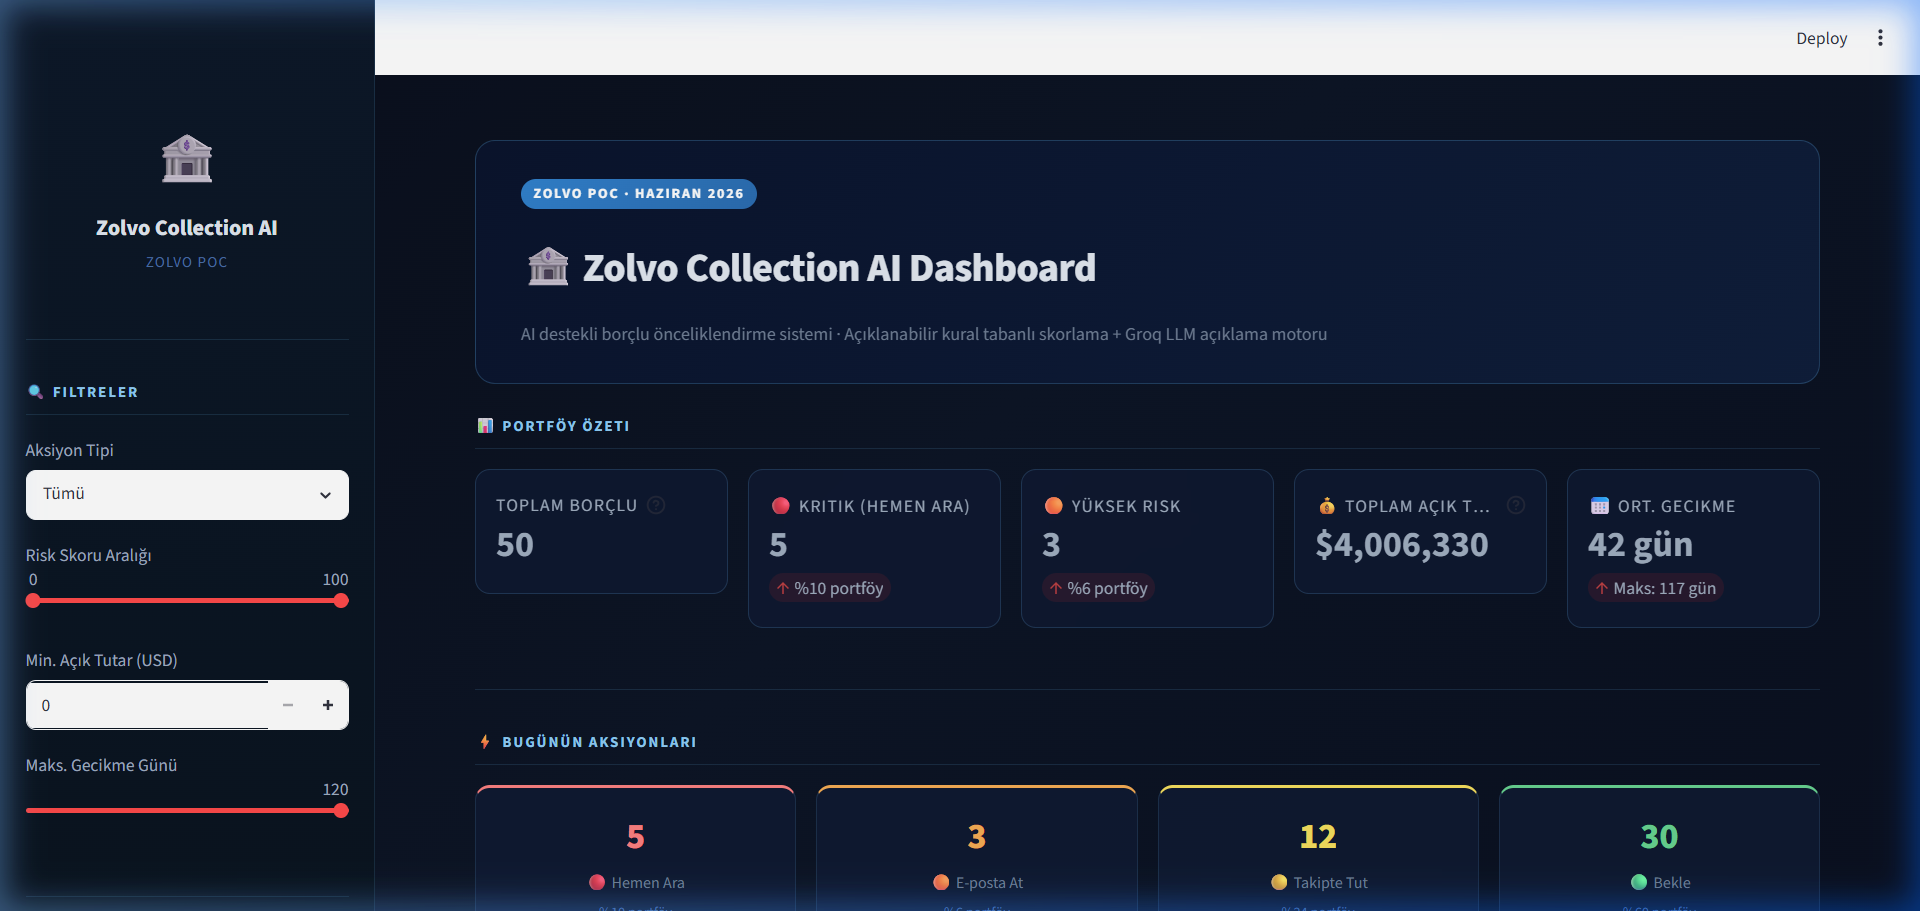
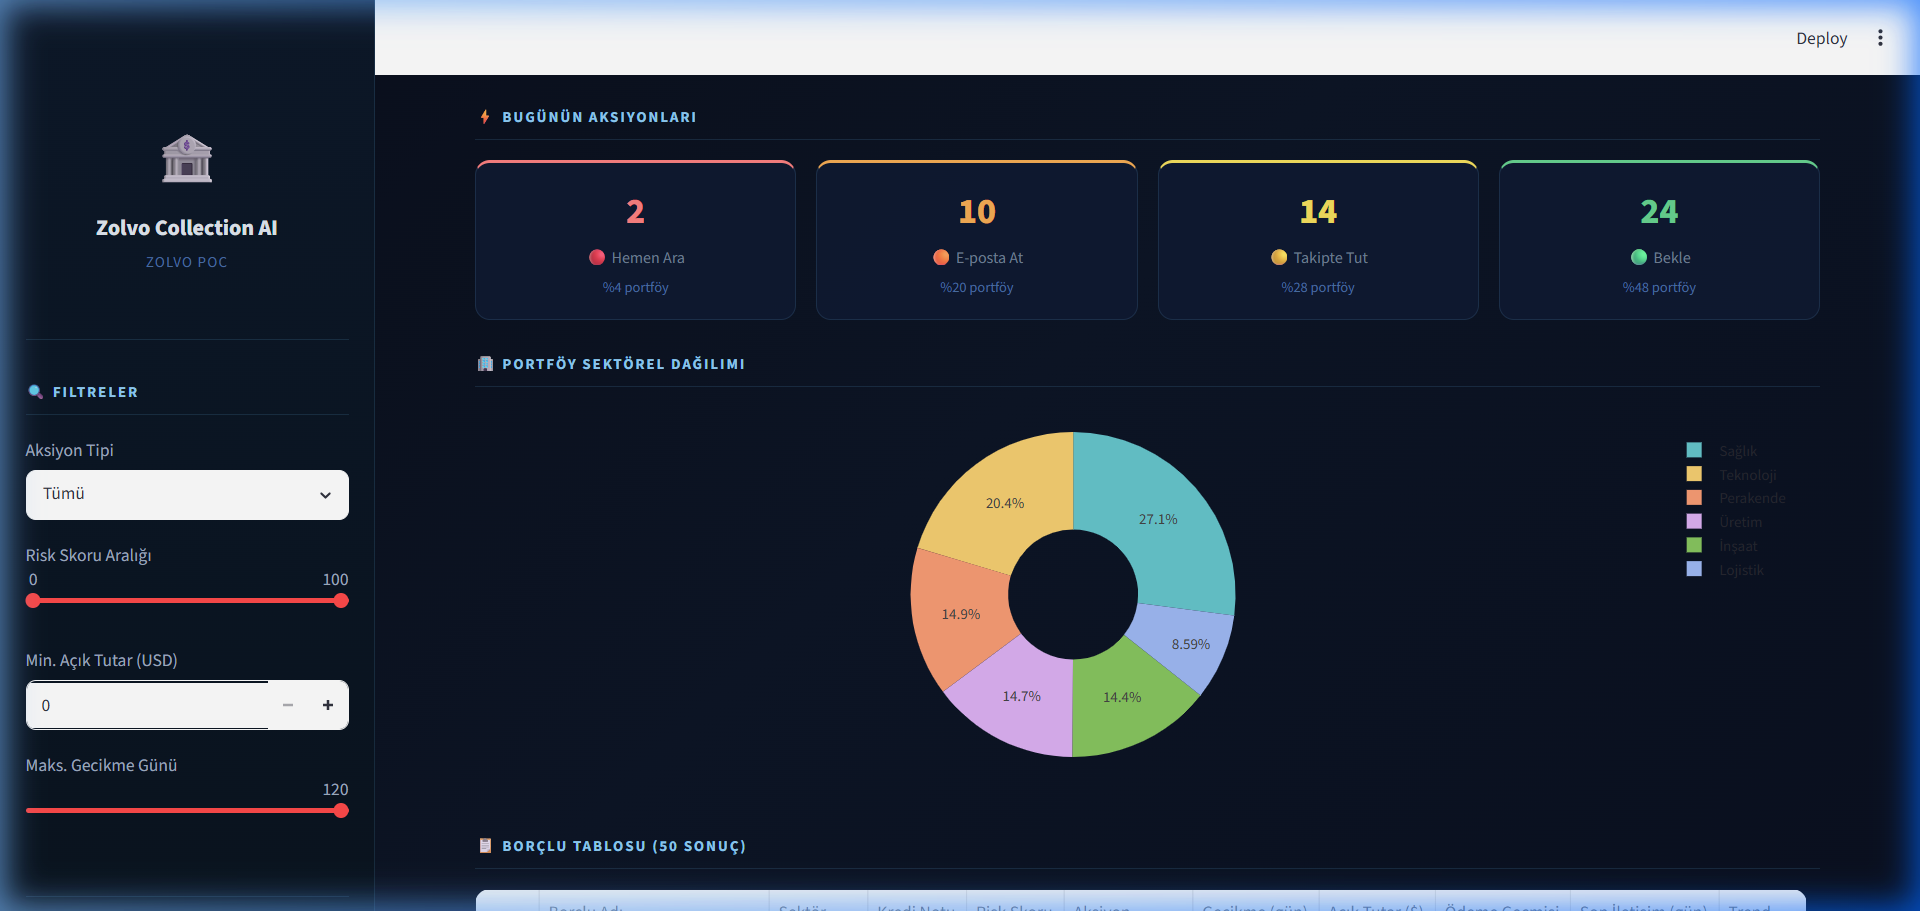
docs: add updated UI screenshots to README

diff --git a/README.md b/README.md
@@ -4,6 +4,8 @@ Zolvo Collection AI is a robust, AI-powered **Debtor Prioritization and Decision
 
 This Proof of Concept (PoC) application integrates a sophisticated rule-based risk scoring algorithm with the reasoning capabilities of the **Llama 3.3 70B** large language model. It provides collections teams with transparent, explainable action recommendations and comprehensive portfolio analytics.
 
+![Zolvo Dashboard](assets/dashboard.png)
+
 ## Key Features
 
 * **Advanced Rule-Based Risk Scoring:** Calculates a mathematical risk score (0-100) for each debtor by evaluating multiple dimensions:
@@ -20,6 +22,8 @@ This Proof of Concept (PoC) application integrates a sophisticated rule-based ri
   * Individual debtor trend analysis using historical invoice delay Sparklines.
   * Detailed breakdown of risk score components.
 * **Cloud-Native Security (Cloudflare Workers):** The application implements a secure, serverless edge proxy via Cloudflare. API keys are never exposed on the client side; all LLM requests are securely routed through the proxy.
+
+![Debtor Details](assets/details.png)
 
 ## System Architecture
 